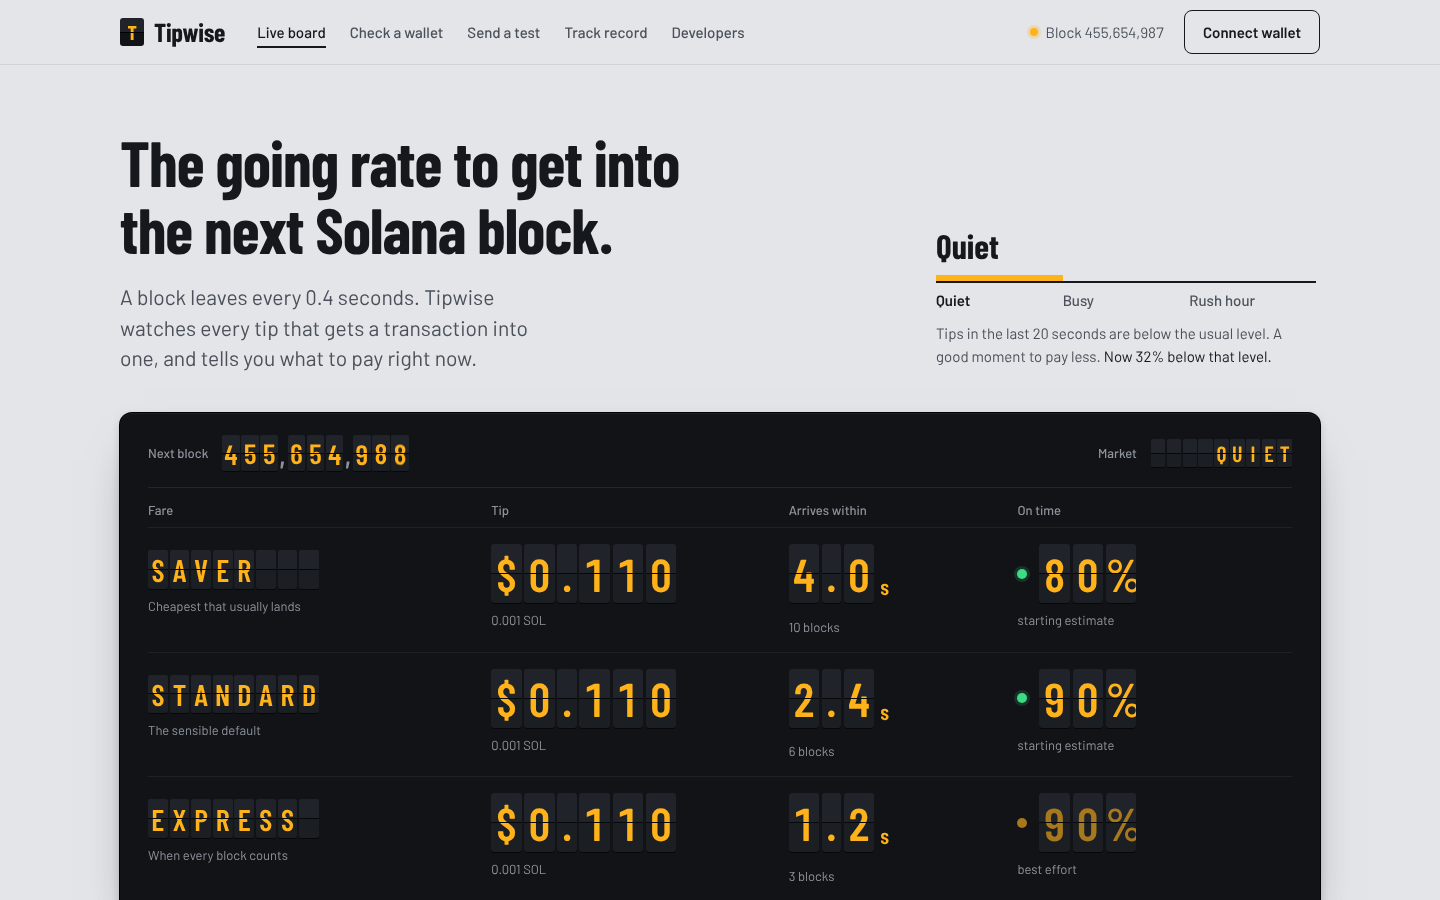
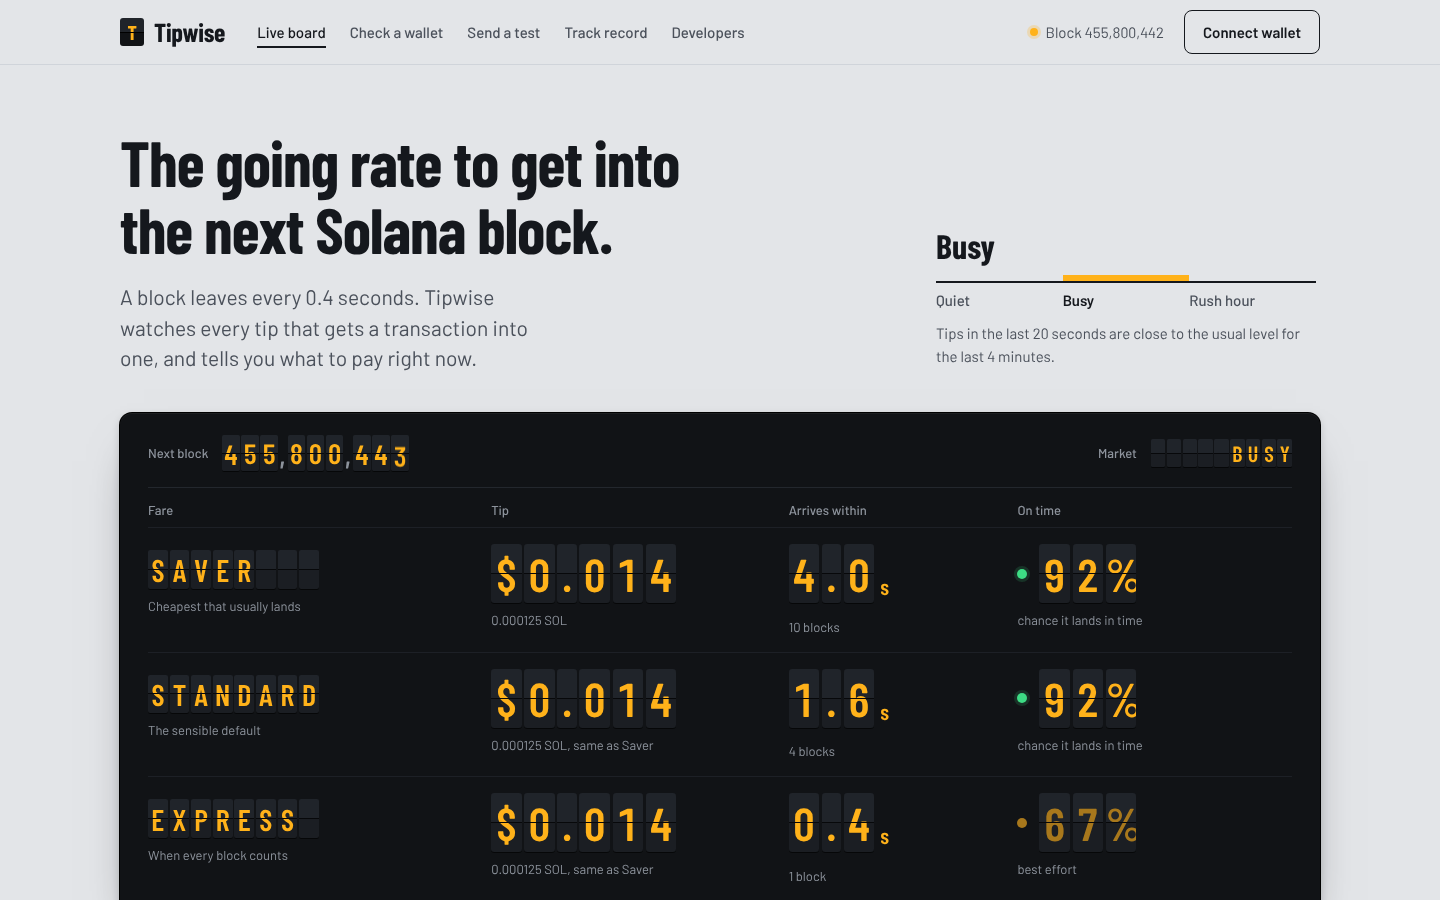
Board says when a bigger tip would not make Express faster; screenshots and mainnet proof from production

diff --git a/web/components/Board.tsx b/web/components/Board.tsx
@@ -47,7 +47,8 @@ export function samePriceLine(fares: Fare[], calibrated: boolean): string | null
   if (!saver || !standard || !express) return null;
   const floor = calibrated && saver.meetsConfidence;
   const cause = floor ? "Quiet market: the cheapest tip is landing fast" : "A bigger tip would not raise the chance right now";
-  if (saver.tipLamports === standard.tipLamports && standard.tipLamports === express.tipLamports) return `${cause}, so all three fares cost the same right now.`;
+  if (saver.tipLamports === standard.tipLamports && standard.tipLamports === express.tipLamports)
+    return `${cause}, so all three fares cost the same right now.${express.meetsConfidence ? "" : " A bigger tip would not make Express any faster."}`;
   if (saver.tipLamports === standard.tipLamports) return `${cause}, so Standard costs the same as Saver right now.`;
   if (standard.tipLamports === express.tipLamports) return `${floor ? cause : "Paying more would not make it land faster right now"}, so Express costs the same as Standard right now.`;
   return null;

diff --git a/README.md b/README.md
@@ -27,7 +27,7 @@ Tipwise reads every tip that gets a transaction into every block, straight from 
 
 **Check a wallet.** Paste any wallet, or pick one of the bots that tipped most in the last 10 minutes. Tipwise reads its last 100 transactions and prints a receipt: tips paid, the going rate in the same blocks, what was paid above it, how many tips were too low to compete, and a stamp (OVERPAID, FAIR or TOO LOW). "Watch this wallet live" prints new trades onto the receipt as they land.
 
-![A wallet checkup receipt stamped OVERPAID: a bot with a fixed tip far above the going rate, and its trade by trade strip](docs/screenshots/check.png)
+![A wallet checkup receipt stamped OVERPAID: a live bot that paid $2.24 in tips, $2.21 of it above the going rate](docs/screenshots/check.png)
 
 **Send a test.** Pick a fare and press "Send a test for me": Tipwise sends a real mainnet transaction through Beam from its own wallet, and you watch it travel from sent to finalized. Or send from your own wallet (Phantom, Solflare, Backpack) for the price of the tip. Either way you get a ticket with the promise check and a plain explanation.
 
@@ -224,9 +224,10 @@ Production run of the hosted instance (Solami region ams), October 11, 2026.
 | --- | --- |
 | Hosted site | https://tipwise.tech |
 | Hosted API | https://api.tipwise.tech (try `/health`, `/fares`, `/calibration`) |
-| Test trips | 31 sent, 31 landed through Beam, every one within 2 blocks (last 30: 18 in 1 block, 12 in 2) |
-| Calibration | Complete: every reachable bucket has 10 probes. Brier score 0.133 against a 2 block deadline (the starting estimates were cautious; every trip landed). |
-| Lag result | No lead: best correlation r = 0.087 at k = 10 blocks over 874 blocks, below the 0.2 threshold, so the forecast does not use heat. |
+| Test trips | 40 sent, 40 landed through Beam, 39 within 2 blocks and one in 3 (last 30: 15 in 1 block, 14 in 2, 1 in 3) |
+| Calibration | Complete: every reachable bucket has 10 probes. Brier score 0.126 against a 2 block deadline (the starting estimates were cautious: 39 of 40 trips landed within 2 blocks). |
+| Fares at the time of writing | Saver 10 blocks: 125,000 lamports, 92%; Standard 4 blocks: 125,000 lamports, 92%; Express 1 block: 125,000 lamports, 67% (best effort). At 1 block the pricier buckets did not land faster (tips of 500,000 lamports and up landed in 1 block less often than tips near the Beam floor), so Express quotes the cheapest tip with its real chance. |
+| Lag result | No lead: best correlation r = 0.067 at k = 3 blocks over 887 blocks, below the 0.2 threshold, so the forecast does not use heat. |
 | Solami products | All eight live at the time of writing (Yellowstone gRPC, Mirage, Blur, Beam, RPC, Data API, Webhooks, Leader tracking). |
 
 Calibration per bucket:
@@ -236,24 +237,17 @@ Calibration per bucket:
 | p0 to p25 | 10 | 0.5 | 1 | 0.917 | reachable |
 | p25 to p50 | 10 | 0.65 | 1 | 0.917 | reachable |
 | p50 to p75 | 10 | 0.8 | 1 | 0.917 | reachable |
-| p75 to p90 | 1 | 0.9 | 1 | 0.917 | above tip ceiling |
+| p75 to p90 | 10 | 0.9 | 0.9 | 0.917 | reachable |
 | p90 to p100 | 0 |  |  | 0.917 | above tip ceiling |
 
 Production sends (all through Beam via Solami RPC):
 
 | Kind | Signature | Tip (lamports) | Blocks to land | Beam record |
 | --- | --- | --- | --- | --- |
+| free test send (Standard) | [om7YZR33...dttzjQ](https://solscan.io/tx/om7YZR339PZQghJMBKHU8MqERfHKkeWZmqj7Gmp4mDRjeNH26TJLabqCWinnBFb6CaXbs78PnFFLnNSbgdttzjQ) | 108,955 | 1 | landed, ams |
+| free test send (Express) | [4NVyB4cK...6VnCXE](https://solscan.io/tx/4NVyB4cK2iacFwkQcVLqouvTykWfNq9TyF6xG59K9h6i7pLXWn1P8ZvqmRWMp7bxk9bibBBS6UYLrwXjnn6VnCXE) | 1,000,000 | 1 | landed, ams |
 | free test send (Standard) | [5EHzvLSo...SG2U4R](https://solscan.io/tx/5EHzvLSo8dk6wwm5WW2FpqpRytJgdY4JF5KVkHY178ArMMKPFfJVfkFVHcsWQcAR8nNGqJgK3keAN9VPQJSG2U4R) | 108,726 | 1 | landed, ams |
 | free test send (Standard) | [2z52gGMM...WouMey](https://solscan.io/tx/2z52gGMM9HsuCB7xgeA857o6SD4VzdDY9aUFfvvUwqxh4tUjeYcmnNwizW86vbe4oYKCzyF1FzZ3BMgWVbWouMey) | 109,000 | 2 | landed, ams |
-| test trip | [5kzMmDnk...1hA2Lq](https://solscan.io/tx/5kzMmDnkYbpMJbhdVuVjrEqCSeo7cyjefkZE4qdMMZ6YyyLYBPx2BEnbwckLunpbEPHg4sND1UYeGKoUAH1hA2Lq) | 100,001 | 2 | landed, ams |
-| test trip | [63EtuPyp...h9erGo](https://solscan.io/tx/63EtuPypg2pjunynitRLjxRGhMuK4U1amgxV7NJzq54VRz5mSw2UiUWyhLYkW8RJmwZyrqHMTsBLXjnGaUh9erGo) | 200,000 | 1 | landed, ams |
-| test trip | [287MBJSE...BnfxTn](https://solscan.io/tx/287MBJSEaU2MvAMjqHVCZmoGpkj2ecLdmMhj82sBs19SmtJxzmaa3qAUNS46UXgqYBFGe28qiApJFxr3GtBnfxTn) | 100,001 | 2 | landed, ams |
-| test trip | [5XhFrE64...23oqCR](https://solscan.io/tx/5XhFrE64WcFtzAthF1Usavta8SVbPfEMbM4G1jp9cVhWS1MCrY9LHc3Mh2x7wSSzNjfvSaKiyardLedm7p23oqCR) | 640,000 | 1 | landed, ams |
-| test trip | [5zntcuab...cWCXp6](https://solscan.io/tx/5zntcuab6NLPcPkTyYHp3DphSN4JoS6cpjeksZ7PQuZbZLX55vfFt17bgQfjN1tQna1osho22gbfTgi6KxcWCXp6) | 189,043 | 1 | landed, ams |
-| test trip | [5sFffpwk...4H5NQY](https://solscan.io/tx/5sFffpwksFqA7kYVe7wgkcaQrFtfbvkY6PfoCV8BRxgySZx1mBDrEmE13C3EBVTed4fV2QtDGdruqKZtrC4H5NQY) | 980,001 | 2 | landed, ams |
-| test trip | [25dvhHU2...x9R4rc](https://solscan.io/tx/25dvhHU2GTDcsNYW4BBeVd1GcjAZwPwsig5nHzQvobgwr53pvPdRaGzrZv7DMkFmXNQSfsVi5bknFV3PrNx9R4rc) | 200,001 | 1 | landed, ams |
-| test trip | [2PE25cMb...CPoa2s](https://solscan.io/tx/2PE25cMb1iYmTRV5Bgm3DhcYXPoec939AY2ZTGm2JxnMtd7LDGbKWXL4y2seEiuiixwiyjmcUybRv9juSRCPoa2s) | 100,001 | 1 | landed, ams |
-| test trip | [4QrCFPX4...ufddeU](https://solscan.io/tx/4QrCFPX4Tf37X4HG2hH8fz1TnJMFXgeaQxe4Hahtd4Eoy6zrjmhVTpot4fSjbvdQjgLjV6vPBKjUUzaTbmufddeU) | 100,000 | 1 | landed, ams |
 | test trip | [4zNQHaFA...2Bshab](https://solscan.io/tx/4zNQHaFAXcVGfo9esnaKoaiEEBaaZJcH2FuqoiQfteCTCQsJKkTLLUFMZXbRReWrjNjuhJ3QKYEa2Xawpa2Bshab) | 200,001 | 1 | landed, ams |
 | test trip | [2ketwm4z...nASMqy](https://solscan.io/tx/2ketwm4zCLg9acFUyFfA8gEaEm4wdhA1zHfkjo6samrHUw74ySwdp6epbJahUFBr5gGbttNm4auuwRHbn5nASMqy) | 954,000 | 2 | landed, ams |
 | test trip | [2b2QFpvT...AJaKXY](https://solscan.io/tx/2b2QFpvTMLH9jgZKoG7A2j8UpBCFxhricQP4fSNam24Y9YdSF2WTds4FbxUnm8xEUC3RAT8KYC5CoDQj8WAJaKXY) | 100,000 | 1 | landed, ams |
@@ -275,6 +269,15 @@ Production sends (all through Beam via Solami RPC):
 | test trip | [2xi3eoZV...9nmSxV](https://solscan.io/tx/2xi3eoZVstkAcRB2G4nmTMporyyufRbC2TEeAQt2Bb74ESp841Xe1Yb5RcfVdmfuVY4ThKpUjnMjcpVmoE9nmSxV) | 905,001 | 2 | landed, ams |
 | test trip | [5gSE7ysD...Scg3mg](https://solscan.io/tx/5gSE7ysD2wPozMfUBnHWiASqGEu8b6k6EgsbpWsy7AtwtfYHxfrJ2unn9sa1RtdsrUMu9UcN661Sv2UMypScg3mg) | 202,425 | 2 | landed, ams |
 | test trip | [ywbZrNTo...WtkAYt](https://solscan.io/tx/ywbZrNTo5svrajwM2iEcP3ARnXBr55he88Ap1UxLwZvVPyBzXsYF51igJTZN2TxmYdHTW6eCPVq5ZXKSVWtkAYt) | 101,980 | 2 | landed, ams |
+| test trip | [331rdwWH...p3voj9](https://solscan.io/tx/331rdwWHaxLKkAcMCRgDc5RVvv6UkvmFdjebsEcHsn69ShjQnM4fYWwGwLuoHXbFSTm7zpmPvR2WZn9JVSp3voj9) | 1,000,000 | 3 | landed, ams |
+| test trip | [218KM7ru...Fk7QsX](https://solscan.io/tx/218KM7ruwaD2Bc2WhxHnXASe9CLYJwi4wS5RgE6oR8PvYkJhefnYu6sWWbrxL8tXUrBi2ssZCGaRBWwmNFFk7QsX) | 1,000,000 | 1 | landed, ams |
+| test trip | [5evG1uos...aYN7h8](https://solscan.io/tx/5evG1uosyENxsXHZLkLnNCLt8dGZrBWhJAR7fKug4tM61D4s4wykRbzT5gACrKiJKeWykkfjbZ21qb7EZEaYN7h8) | 1,000,000 | 2 | landed, ams |
+| test trip | [3Z5U1nPy...mRwxMT](https://solscan.io/tx/3Z5U1nPyd1LG6rjotsNbRfRtP4XUG3KZTLkyHQxkH7HAEtbzhDB8NpeccfkeHLffLHwjXQ8D84rVhY5iRzmRwxMT) | 1,000,000 | 2 | landed, ams |
+| test trip | [4Cy9hpkr...FpZYJY](https://solscan.io/tx/4Cy9hpkrLJ7KWypDdDnYe8TkkJQmeiaQcTMCWsDWGBH633vxEF3ZbnMwaadNqYWHionAnpxttQf6rbEFhyFpZYJY) | 1,000,000 | 2 | landed, ams |
+| test trip | [YzfVxFzo...ZJCzgf](https://solscan.io/tx/YzfVxFzo7Ut95q1pbczKeDRmLaRm2SY9rcHw58ZbkSbAkMv6vD9jsfqR7mkZZXA8PCEvdUvJiFrcLNeZaZJCzgf) | 1,000,000 | 2 | landed, ams |
+| test trip | [5Gp9xSiq...Qe3mr4](https://solscan.io/tx/5Gp9xSiqJRhhXPUxVwmkKYQQn5nJZyBCAgUkHXPMkPvGKXH2oKburnA9citSthQqjvH6WYzcmbL9pjvSEnQe3mr4) | 1,000,000 | 2 | landed, ams |
+| test trip | [GLDUhsD3...zqMimJ](https://solscan.io/tx/GLDUhsD3919t9PJmmWx2r8eH8oTuUbziWFfsMp2nAeGoDmimMiA2na7weogH64PQArteDNS4HZPfBLGFTzqMimJ) | 1,000,000 | 1 | landed, ams |
+| test trip | [5iGreonE...ubMnZt](https://solscan.io/tx/5iGreonEADD1vvmQw6bccD9vtiDVHJVQ9CsPAy7JN98fX3z4xku1DXqvciHwLnTSNfvoTG9KmmLZMdG9HsubMnZt) | 1,000,000 | 1 | landed, ams |
 
 Additional proof from development (October 7, 2026, region ams, all sent through Beam via Solami RPC):
 
